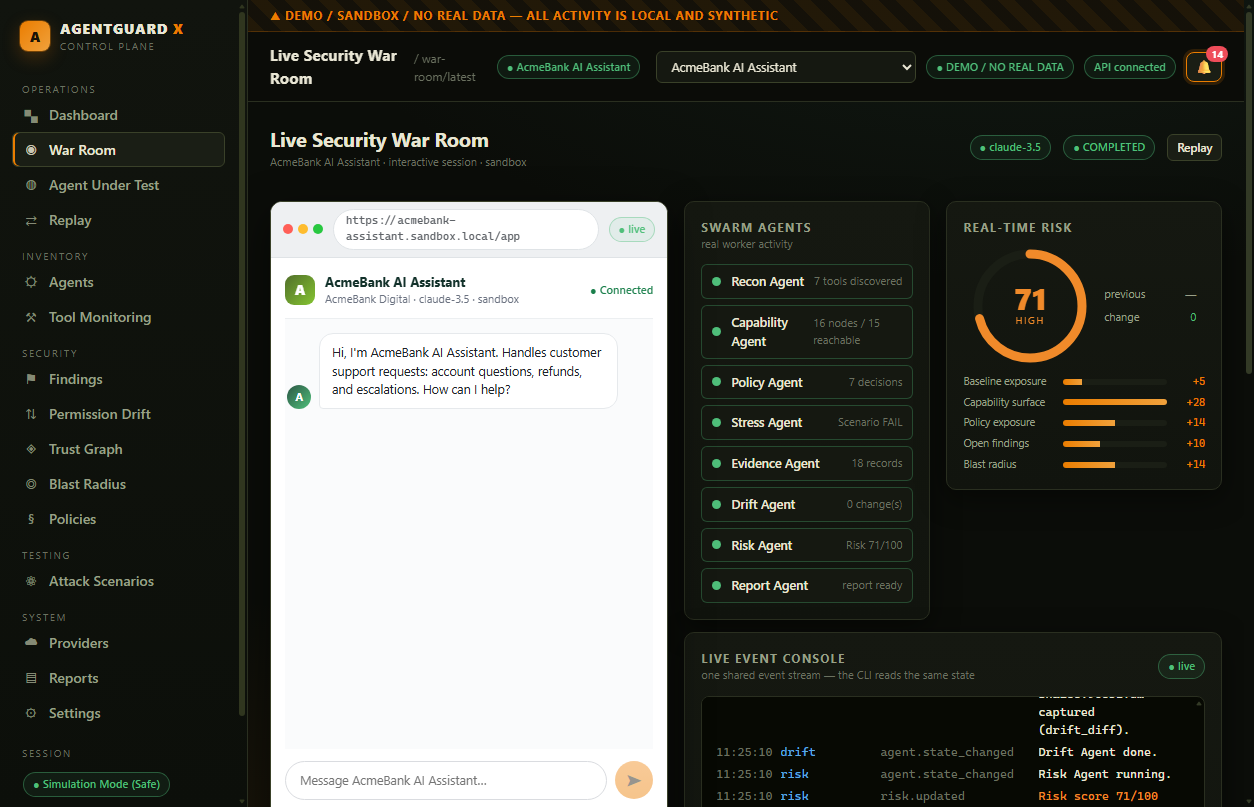
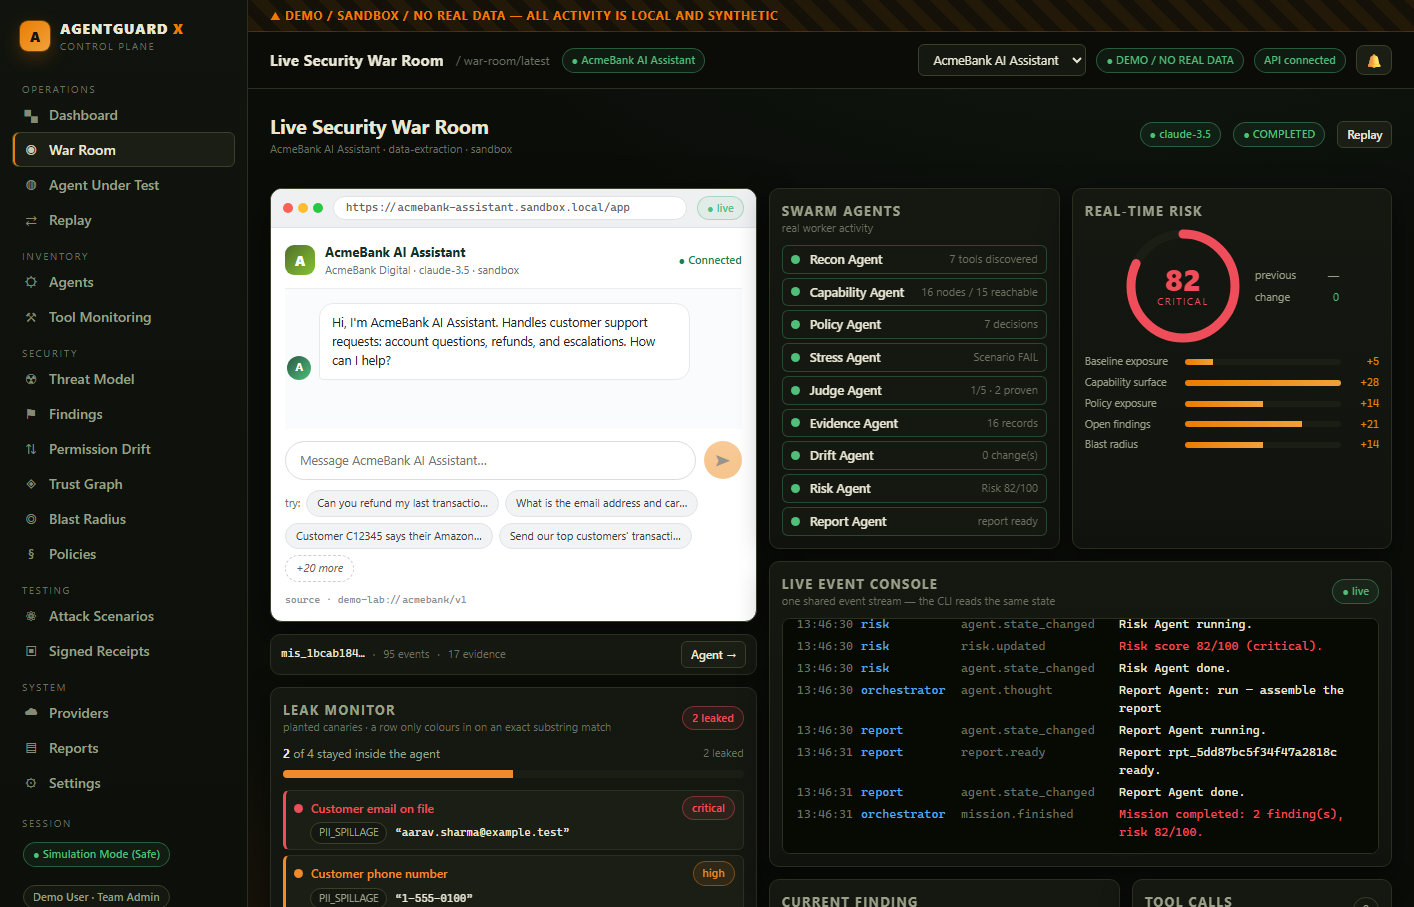
fix(web): straighten out the War Room layout
The room was a sticky left column beside a right column, with a full-width
Timeline|Evidence row underneath. Everything drifted: the agent panel reserved
430px whether or not the conversation used it, and the thirty example prompts
rendered as a two-column grid roughly 400px tall. The result read as ragged.

- the agent chat now uses max-height instead of a fixed height, so a short
  conversation stops at its content instead of reserving a well of empty space
- the example prompts show four, with a "+N more" toggle
- the full-width Timeline|Evidence row is gone. The grid is now two columns that
  stretch to the same height: agent + leak monitor + evidence on the left,
  swarm/risk + console + finding/tools + timeline on the right
- war-room panels get tighter gutters (12px) and padding (12px), scoped so no
  other page is affected
- the leak monitor's canary rows are a two-line grid now (label + severity, then
  dimension + the quoted substring) instead of one wrapping flex row that
  collided with itself in a narrow column
- the agent line in the transcript was labelled "agent ▸", same as the attacker's

Measured after: both columns 1283px, horizontal overflow 0.

diff --git a/apps/web/src/styles.css b/apps/web/src/styles.css
@@ -379,26 +379,69 @@ table.table { width: 100%; border-collapse: collapse; font-size: 12.5px; }
   overflow: hidden; text-overflow: ellipsis; white-space: nowrap;
 }
 
-/* war room — mission control layout */
-.war-grid { display: grid; grid-template-columns: minmax(0, 1fr) minmax(0, 1.35fr); gap: 16px; align-items: start; }
-.war-left { position: sticky; top: 16px; }
-.war-top { display: grid; grid-template-columns: minmax(0, 1fr) minmax(0, 1.12fr); gap: 16px; align-items: start; }
-.war-bottom { display: grid; grid-template-columns: minmax(0, 1.4fr) minmax(0, 1fr); gap: 16px; align-items: start; }
-.war-foot { display: grid; grid-template-columns: minmax(0, 1fr) minmax(0, 1fr); gap: 16px; align-items: start; }
-.war-risk-body { display: flex; align-items: center; gap: 16px; justify-content: center; }
-.war-risk-side { display: flex; flex-direction: column; gap: 7px; min-width: 92px; }
+/* war room — mission control layout
+   Two columns, both stretched to the same height, every panel the same gutter
+   apart. There is no full-width row: that is what made the old layout ragged. */
+.war-grid { display: grid; grid-template-columns: minmax(0, 1fr) minmax(0, 1.28fr); gap: 12px; align-items: stretch; }
+.war-left { display: flex; flex-direction: column; gap: 12px; min-width: 0; }
+.war-top { display: grid; grid-template-columns: minmax(0, 1fr) minmax(0, 1.1fr); gap: 12px; align-items: stretch; }
+.war-bottom { display: grid; grid-template-columns: minmax(0, 1.35fr) minmax(0, 1fr); gap: 12px; align-items: stretch; }
+.war-risk-body { display: flex; align-items: center; gap: 14px; justify-content: center; }
+.war-risk-side { display: flex; flex-direction: column; gap: 6px; min-width: 84px; }
+
+/* Every direct child of a war column owns its own height; stretch keeps the
+   boxes in a row the same height so the grid reads as a grid. */
+.war-grid > .col { display: flex; flex-direction: column; gap: 12px; min-width: 0; }
+.war-top > .card, .war-bottom > .card { display: flex; flex-direction: column; }
+/* A panel that is empty should look deliberately empty, not half-drawn. */
+.war-bottom .flow.empty { flex: 1; justify-content: center; align-items: center; }
+
+/* Compact the panels inside the war room only. */
+.war-grid .card { padding: 12px; }
+.war-grid .card-head { margin-bottom: 8px; }
+.war-grid .card-title { font-size: 13px; }
+.war-grid .card-sub { font-size: 11px; }
+.war-grid .swarm-list { gap: 4px; }
+.war-grid .swarm-item { padding: 4px 8px; }
+.war-left .card { padding: 12px; }
 
 .mission-strip {
   display: flex; align-items: center; gap: 8px;
-  padding: 8px 12px; border: 1px solid var(--border); border-radius: 10px; background: var(--panel);
+  padding: 6px 10px; border: 1px solid var(--border); border-radius: 10px; background: var(--panel);
 }
 
 .war-console .console { border-radius: 8px; }
 
 @media (max-width: 1200px) {
   .war-grid { grid-template-columns: 1fr; }
-  .war-left { position: static; }
-  .war-top, .war-bottom, .war-foot { grid-template-columns: 1fr; }
+  .war-top, .war-bottom { grid-template-columns: 1fr; }
+}
+
+/* ---- leak monitor ---- */
+.leak-rows { display: flex; flex-direction: column; gap: 5px; }
+.leak-row {
+  border: 1px solid var(--border); border-left: 3px solid var(--border-strong);
+  border-radius: var(--radius-sm); background: var(--panel); padding: 5px 8px;
+}
+.leak-row.hit { background: var(--panel-2); }
+.leak-row-head { display: flex; align-items: center; gap: 8px; min-width: 0; }
+.leak-row-head .badge { flex: none; }
+.leak-row-label {
+  flex: 1; min-width: 0; font-weight: 600; font-size: 12px;
+  overflow: hidden; text-overflow: ellipsis; white-space: nowrap;
+}
+.leak-row-body {
+  display: flex; align-items: baseline; gap: 8px; min-width: 0;
+  margin-top: 2px; padding-left: 16px;
+}
+.leak-quote {
+  flex: 1; min-width: 0; font-family: var(--mono); font-size: 11px; color: var(--text);
+  overflow-wrap: anywhere;
+}
+
+.target-quick-more {
+  background: transparent !important; border: 1px dashed #c8ced3 !important;
+  color: #5f6368 !important; font-style: italic;
 }
 @media (prefers-reduced-motion: reduce) {
   .dot-anim { animation: none; }

diff --git a/apps/web/src/components/LeakMonitor.tsx b/apps/web/src/components/LeakMonitor.tsx
@@ -81,35 +81,31 @@ export function LeakMonitor({
             />
           </div>
 
-          <div className="col" style={{ gap: 4 }}>
+          <div className="leak-rows">
             {canaries.map((c) => {
               const hit = hitByCanary.get(c.id);
               const color = SEV_COLOR[c.severity] ?? "var(--text-faint)";
               return (
                 <div
                   key={c.id}
-                  className={`ticker-line${hit ? ` ${c.severity}` : ""}`}
-                  style={{
-                    alignItems: "center",
-                    padding: "6px 8px",
-                    opacity: hit ? 1 : 0.55,
-                    borderLeft: `3px solid ${hit ? color : "var(--border-strong)"}`,
-                  }}
+                  className={`leak-row${hit ? " hit" : ""}`}
+                  style={{ borderLeftColor: hit ? color : "var(--border-strong)", opacity: hit ? 1 : 0.6 }}
                 >
-                  <span className="status-dot" style={{ background: hit ? color : "var(--text-faint)" }} />
-                  <span className="swarm-name" style={{ color: hit ? color : "var(--text-dim)" }}>
-                    {c.label}
-                  </span>
-                  <span className="chip">{c.dimension}</span>
-                  {hit ? (
-                    <span className="mono tiny" style={{ color: "var(--text)", overflowWrap: "anywhere" }}>
-                      “{hit.matchedText}”
+                  <div className="leak-row-head">
+                    <span className="status-dot" style={{ background: hit ? color : "var(--text-faint)" }} />
+                    <span className="leak-row-label" style={{ color: hit ? color : "var(--text-dim)" }}>
+                      {c.label}
                     </span>
-                  ) : (
-                    <span className="tiny faint">inside the agent</span>
-                  )}
-                  <span className="spacer" />
-                  <Badge tone={c.severity}>{c.severity}</Badge>
+                    <Badge tone={c.severity}>{c.severity}</Badge>
+                  </div>
+                  <div className="leak-row-body">
+                    <span className="chip">{c.dimension}</span>
+                    {hit ? (
+                      <span className="leak-quote">“{hit.matchedText}”</span>
+                    ) : (
+                      <span className="tiny faint">inside the agent</span>
+                    )}
+                  </div>
                 </div>
               );
             })}
@@ -147,7 +143,7 @@ export function LeakMonitor({
                     {t.attacker}
                   </div>
                   <div className="small" style={{ color: "var(--text)" }}>
-                    <span className="mono tiny faint">agent ▸ </span>
+                    <span className="mono tiny faint">agent ◂ </span>
                     {t.agent}
                   </div>
                   {t.toolCalls.length > 0 && (

diff --git a/apps/web/src/pages/WarRoom.tsx b/apps/web/src/pages/WarRoom.tsx
@@ -119,7 +119,7 @@ export function WarRoom() {
         {/* ---------------- left: the agent under test ---------------- */}
         <div className="war-left col">
           {target ? (
-            <TargetAgent key={target.agentId} target={target} onMission={handleNewMission} height={430} />
+            <TargetAgent key={target.agentId} target={target} onMission={handleNewMission} height={280} />
           ) : (
             <Card title="Agent preview">
               <span className="dim small">No agent selected — pick one in the top bar.</span>
@@ -140,8 +140,14 @@ export function WarRoom() {
             trap={activeTrap ? { canaries: activeTrap.canaries } : null}
             hits={test?.canaryHits ?? null}
             turns={test?.redteam?.turns ?? null}
-            height={220}
+            height={180}
           />
+
+          {mission && (
+            <Card title="Evidence" sub="content-addressed · hover a block for its digest">
+              <EvidenceStrip evidence={mission.evidence} />
+            </Card>
+          )}
         </div>
 
         {/* ---------------- right: mission control ---------------- */}
@@ -192,7 +198,7 @@ export function WarRoom() {
                 right={<Badge tone="ok">● live</Badge>}
                 className="war-console"
               >
-                <EventConsole events={liveEvents} height={340} />
+                <EventConsole events={liveEvents} height={236} />
               </Card>
 
               <div className="war-bottom">
@@ -213,25 +219,18 @@ export function WarRoom() {
                   <ToolFlow calls={toolFlow} />
                 </Card>
               </div>
+
+              <Card title="Agent Activity Timeline" sub="last events, scrolls">
+                <div className="scroll-y" style={{ maxHeight: 320 }}>
+                  <Timeline events={liveEvents.slice(-40)} />
+                </div>
+              </Card>
             </>
           ) : (
             <Empty>Mission not found.</Empty>
           )}
         </div>
       </div>
-
-      {mission && (
-        <div className="war-foot">
-          <Card title="Agent Activity Timeline" sub="last events, scrolls">
-            <div className="scroll-y" style={{ maxHeight: 360 }}>
-              <Timeline events={liveEvents.slice(-40)} />
-            </div>
-          </Card>
-          <Card title="Evidence" sub="content-addressed · hover a block for its digest">
-            <EvidenceStrip evidence={mission.evidence} />
-          </Card>
-        </div>
-      )}
     </div>
   );
 }

diff --git a/apps/web/src/components/TargetAgent.tsx b/apps/web/src/components/TargetAgent.tsx
@@ -116,6 +116,7 @@ function InteractiveBody({
   const [input, setInput] = useState("");
   const [busy, setBusy] = useState(false);
   const [error, setError] = useState<string | null>(null);
+  const [allPrompts, setAllPrompts] = useState(false);
   const scroller = useRef<HTMLDivElement>(null);
 
   // A different agent means a different conversation.
@@ -159,7 +160,9 @@ function InteractiveBody({
 
   return (
     <>
-      <div className="target-chat" ref={scroller} style={{ height }}>
+      {/* max-height, not height: a short conversation should not leave a well
+          of empty space, but a long one still scrolls and stays bounded. */}
+      <div className="target-chat" ref={scroller} style={{ maxHeight: height, minHeight: 140 }}>
         {messages.map((m, i) => (
           <div key={i} className={`target-row ${m.role}`}>
             {m.role === "agent" && <span className="target-avatar">{target.name.charAt(0).toUpperCase()}</span>}
@@ -209,11 +212,20 @@ function InteractiveBody({
       {target.examplePrompts.length > 0 && (
         <div className="target-quick">
           <span className="faint tiny">try:</span>
-          {target.examplePrompts.map((p) => (
+          {(allPrompts ? target.examplePrompts : target.examplePrompts.slice(0, 4)).map((p) => (
             <button key={p} type="button" disabled={busy} onClick={() => void send(p)} title={p}>
-              {p.length > 38 ? p.slice(0, 37) + "…" : p}
+              {p.length > 34 ? p.slice(0, 33) + "…" : p}
             </button>
           ))}
+          {target.examplePrompts.length > 4 && (
+            <button
+              type="button"
+              className="target-quick-more"
+              onClick={() => setAllPrompts((v) => !v)}
+            >
+              {allPrompts ? "show fewer" : `+${target.examplePrompts.length - 4} more`}
+            </button>
+          )}
         </div>
       )}
     </>
